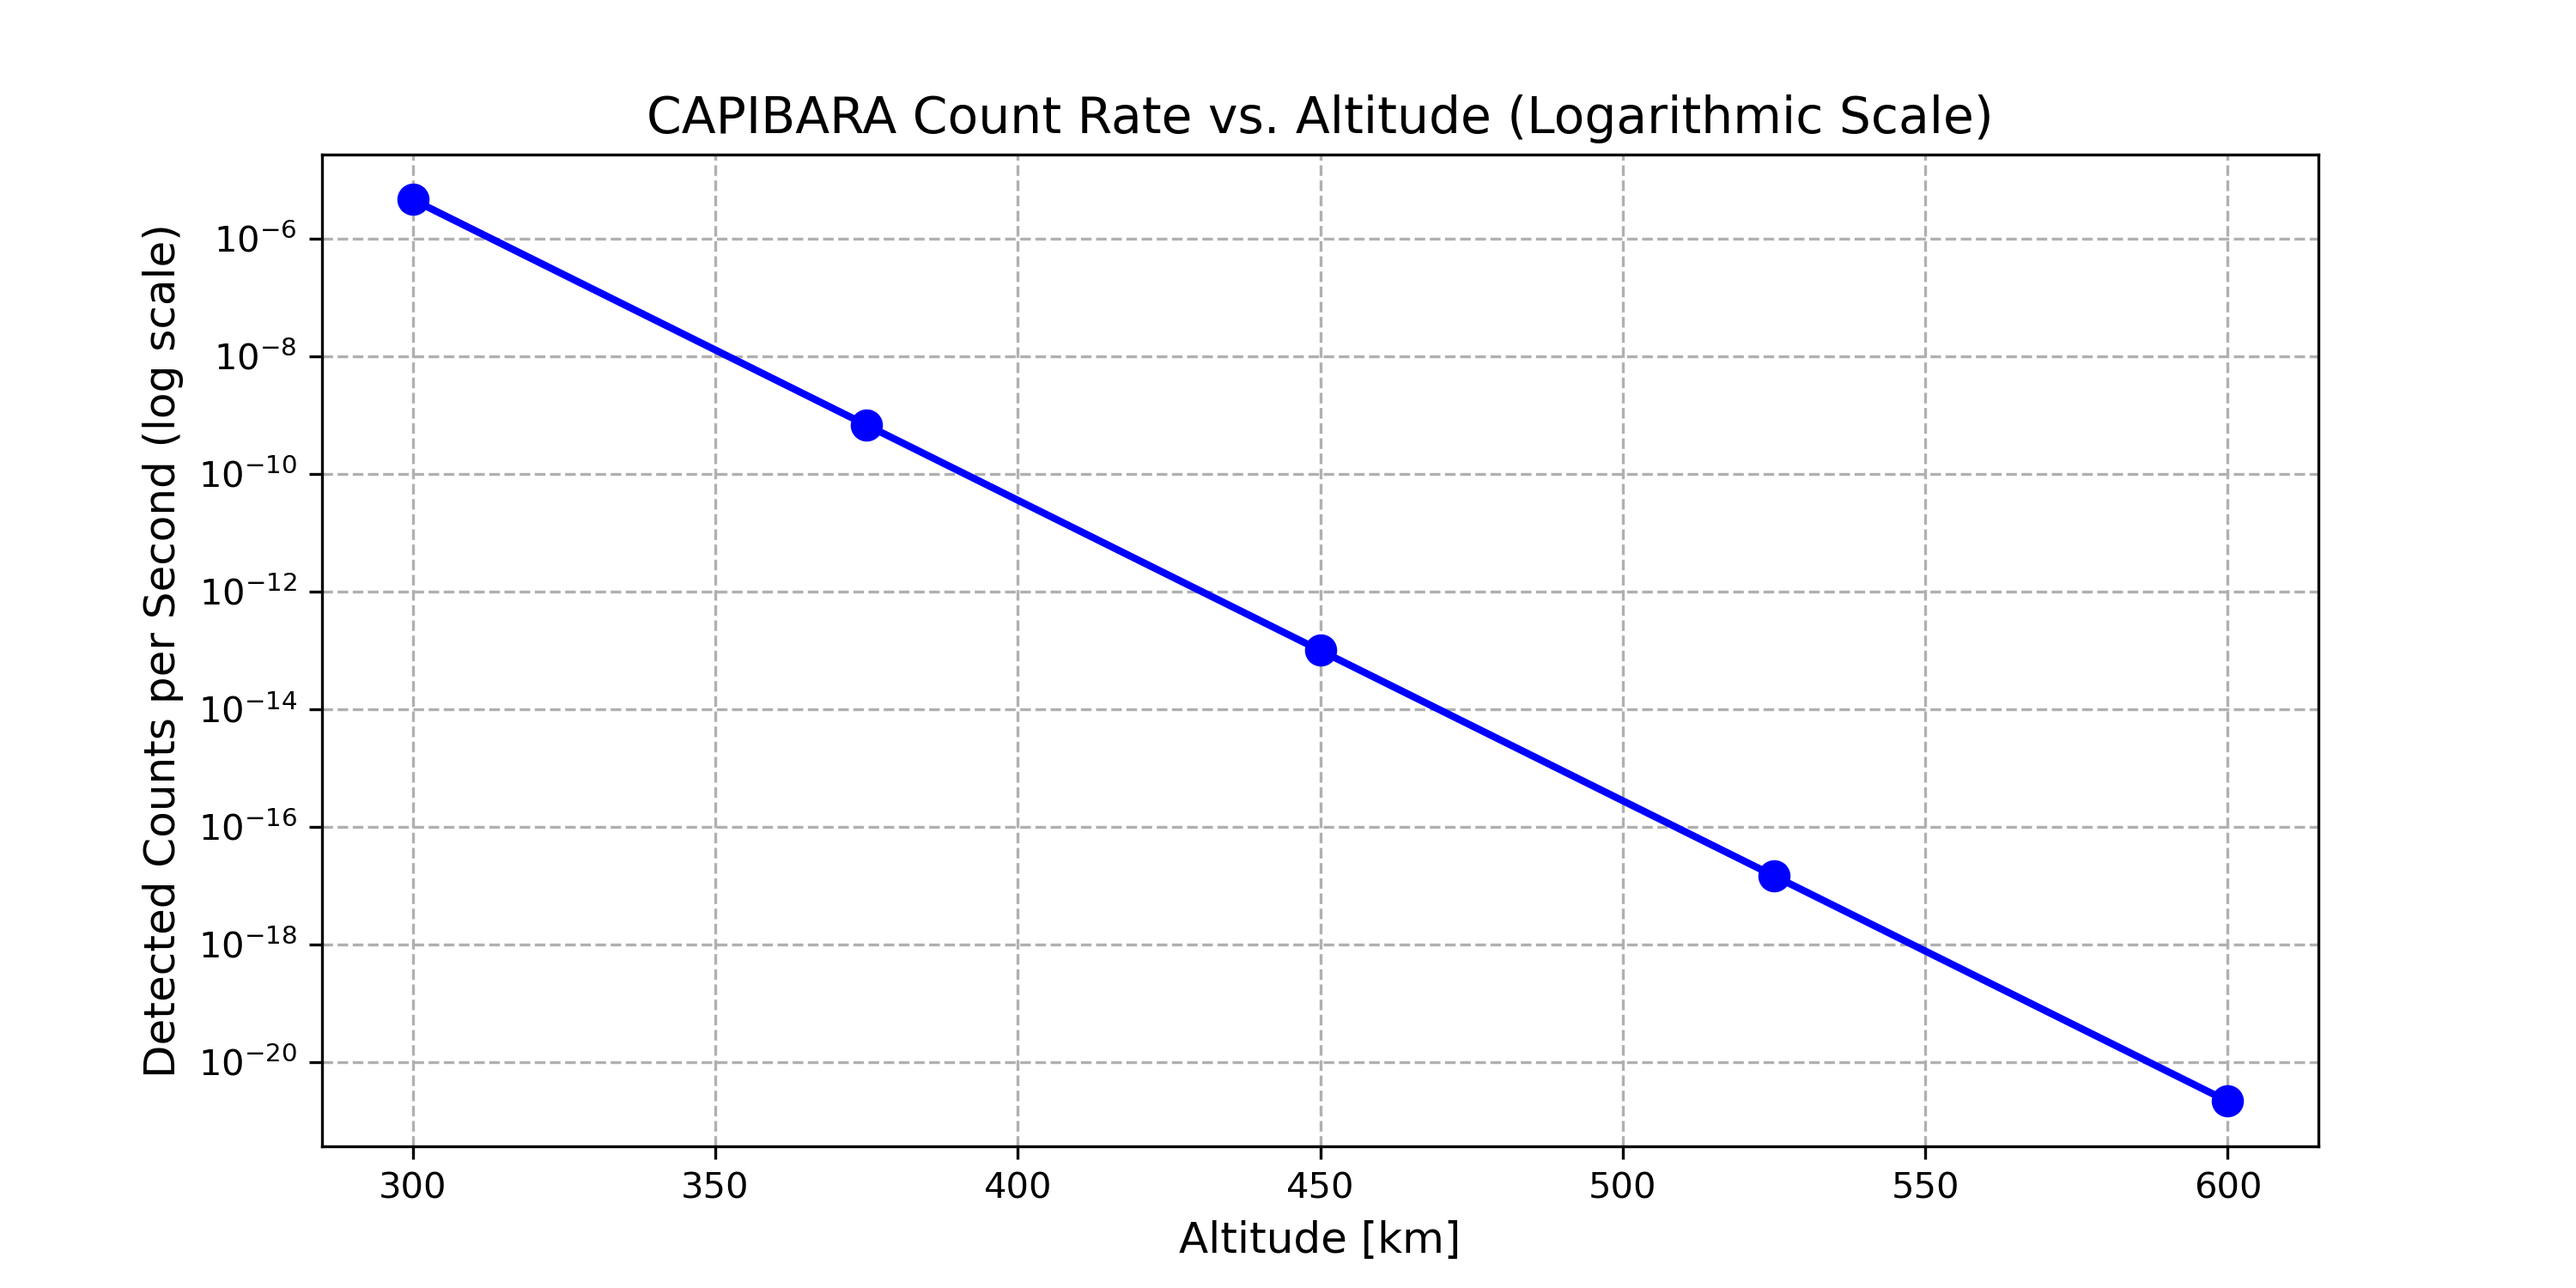
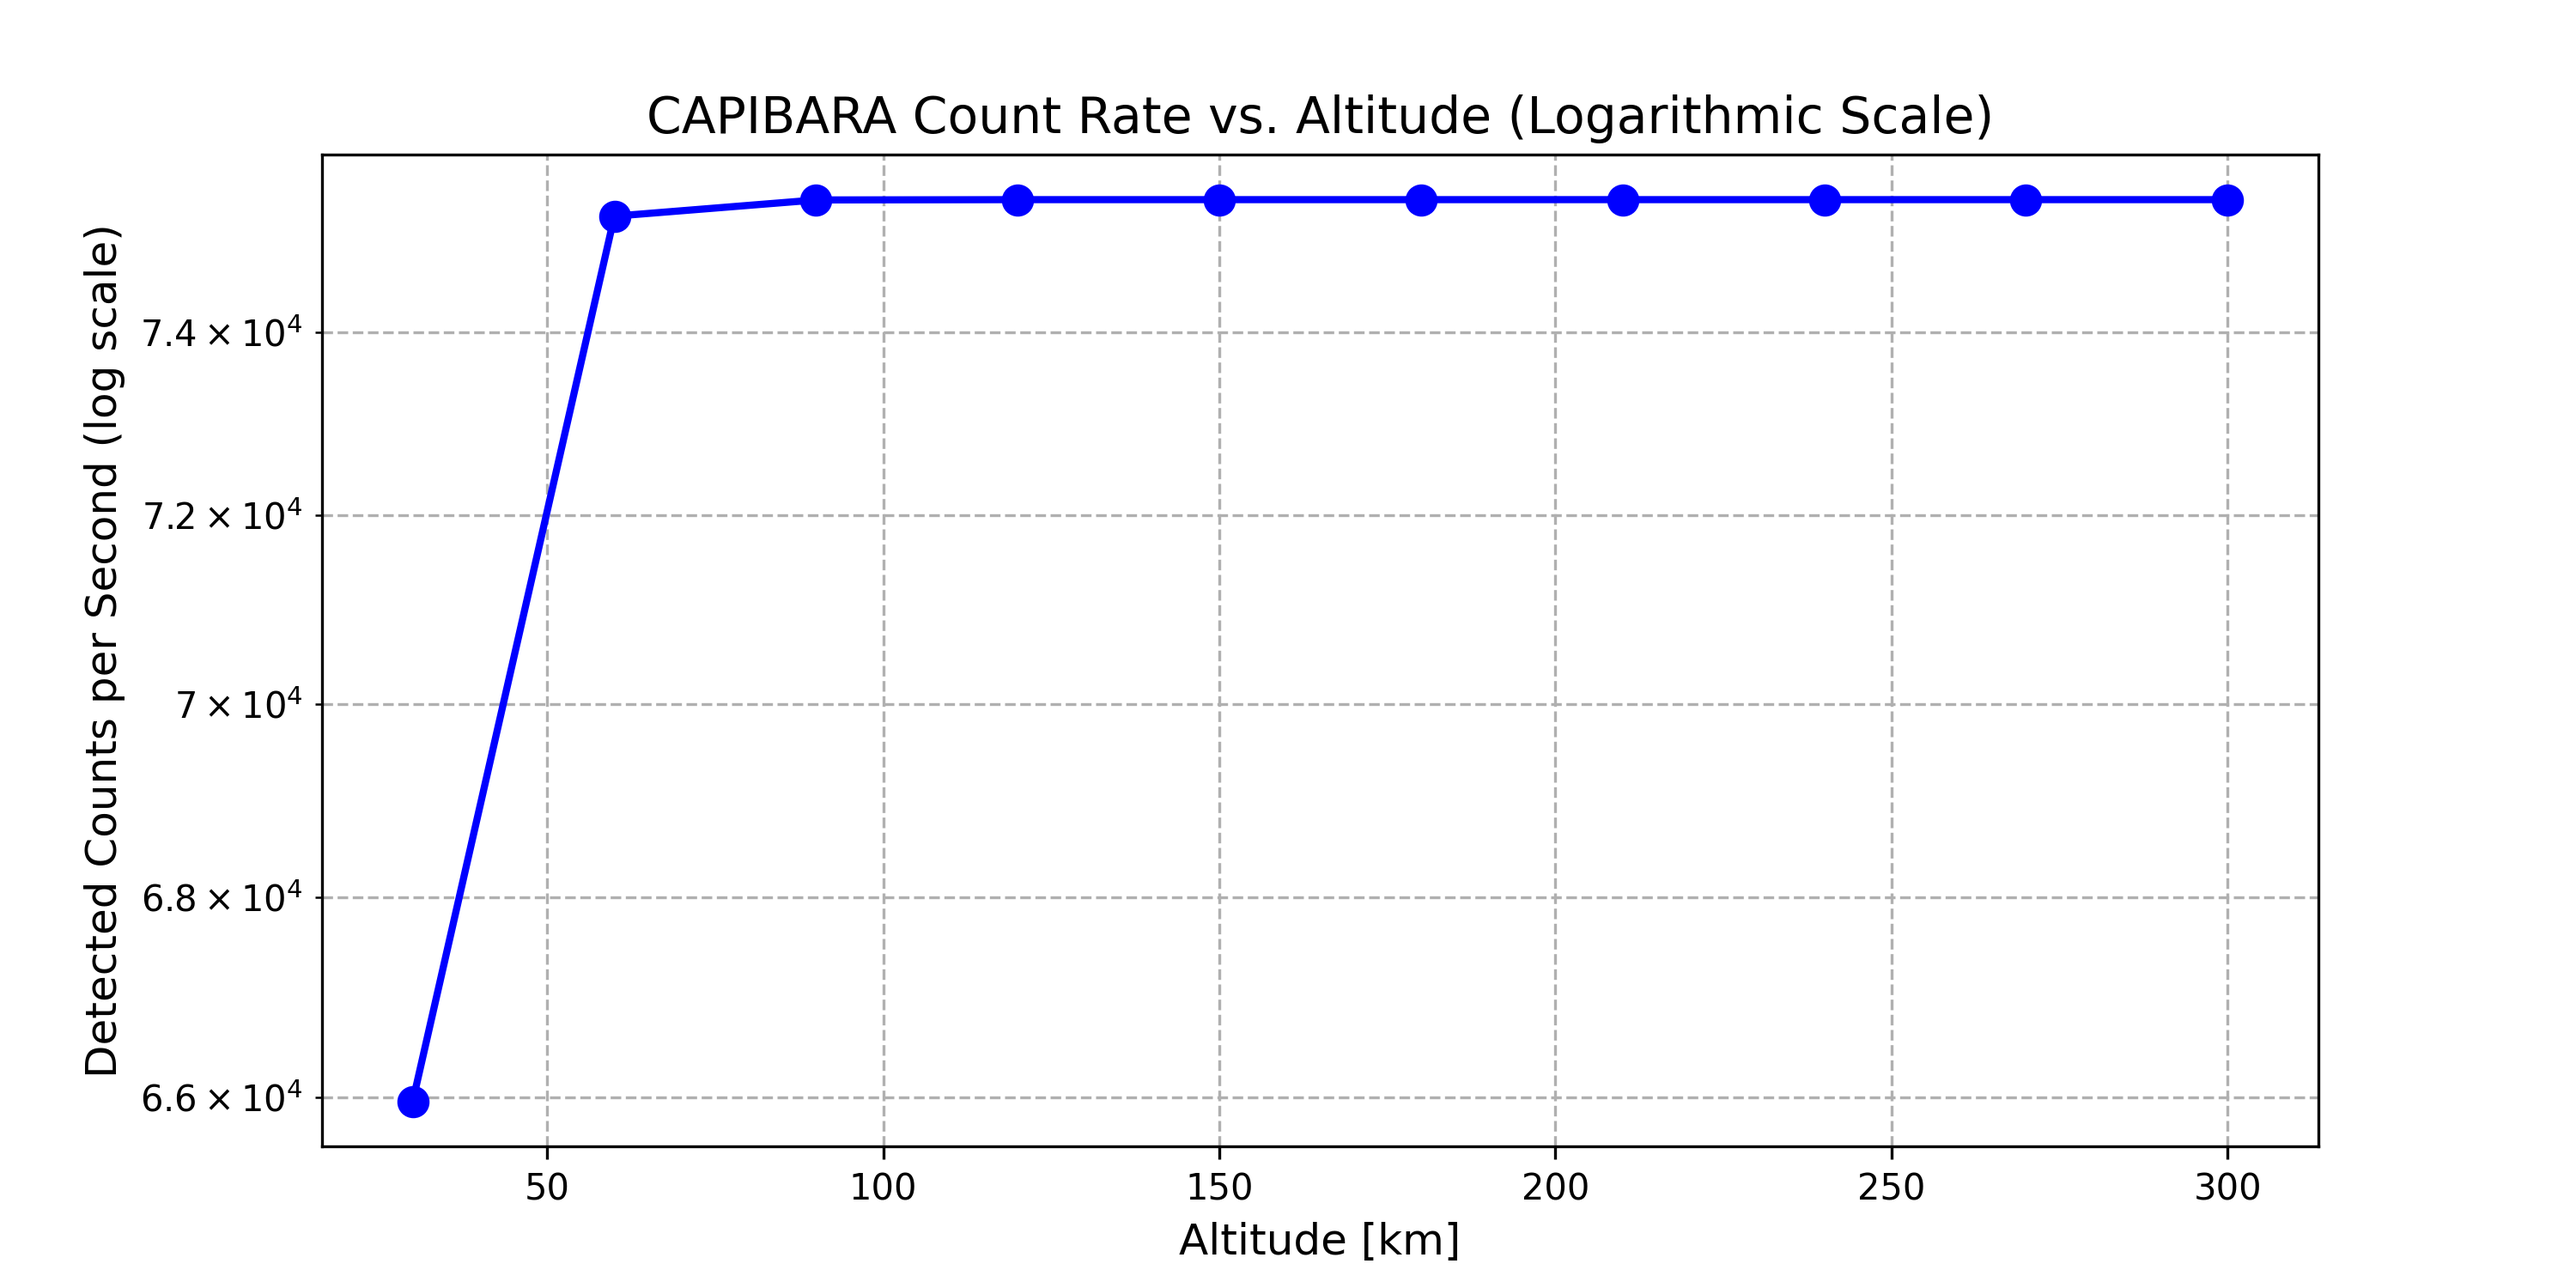
* adjust altitudes range cohesively with `01a_flux_vs_altitudes.py` * refactor `cosmic_ray_flux` to utilize class * update `np.trapz` (deprecated) to `np.trapezoid`

diff --git a/sims/code/02_log_counts_vs_altitude.py b/sims/code/02_log_counts_vs_altitude.py
@@ -4,17 +4,17 @@ from main import *
 
 def calculate_counts(flux, energy_bins, detector_area):
     """Integrate flux over energy bins (counts/cm²/s)."""
-    return np.trapz(flux, energy_bins) * detector_area
+    return np.trapezoid(flux, energy_bins) * detector_area
 
 # Generate energy/altitude grid
 energies = np.logspace(-1, 2, 100)  # 0.1–100 MeV
-altitudes = np.linspace(300, 600, 5)  # 300–600 km
+altitudes = np.linspace(30, 300, 10)  # 300–600 km
 detector = Detector()
 
 # Calculate counts/sec at each altitude (logarithmic scale)
 counts = []
 for alt in altitudes:
-    flux = cosmic_ray_flux(energies, alt)
+    flux = cosmic_ray.flux(energies, alt)
     detectable = detector.detect(energies)
     counts.append(calculate_counts(flux[detectable], energies[detectable], detector.area))
 
